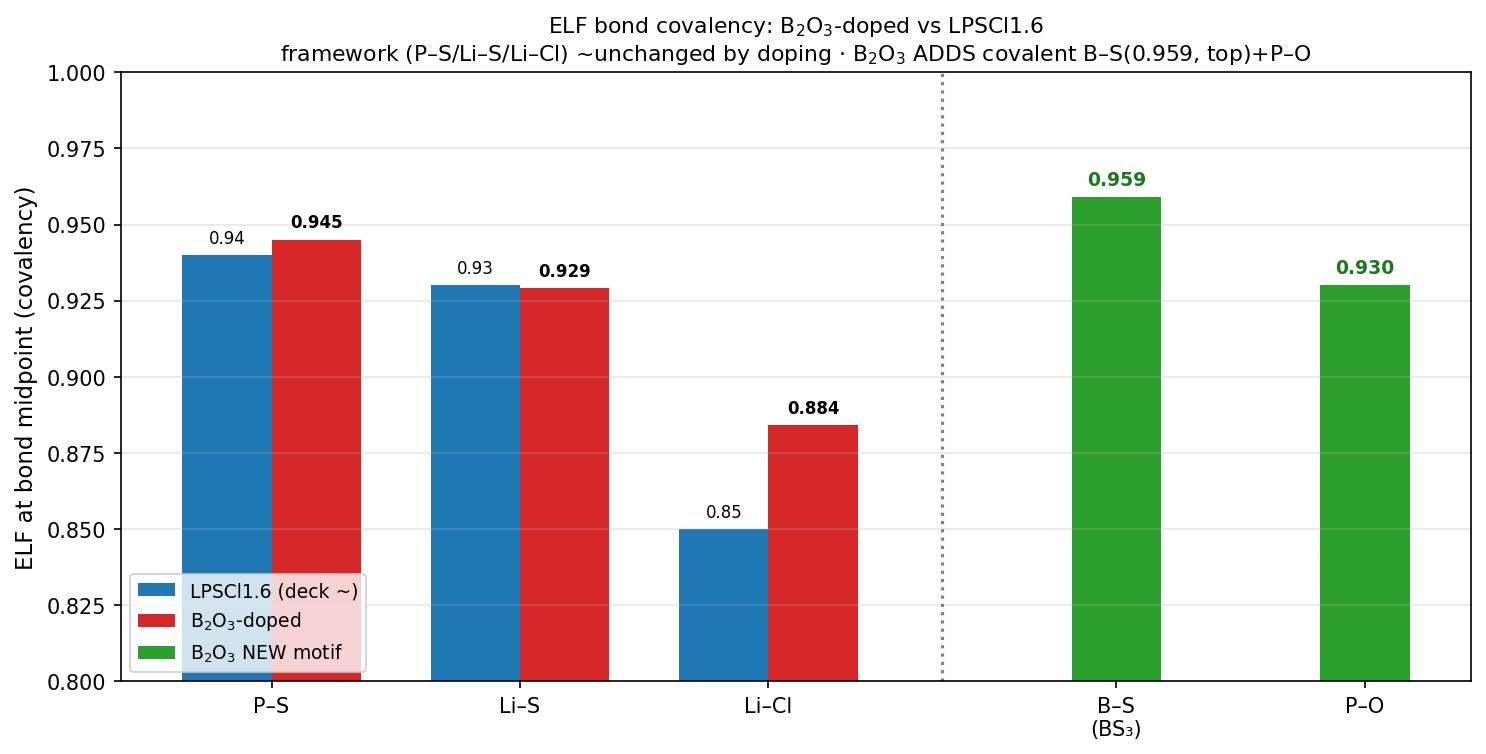
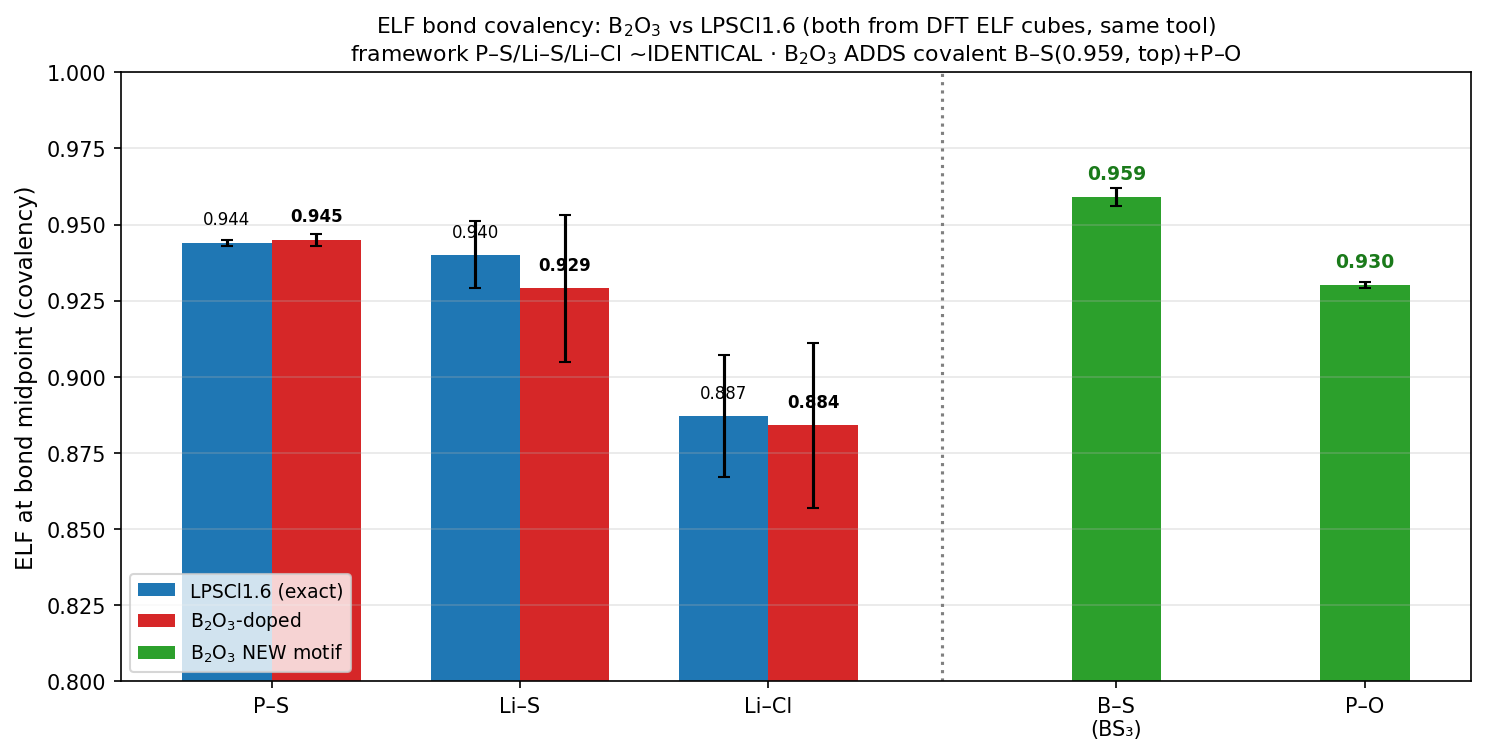
ELF comparison b2o3 vs LPSCl1.6 — EXACT (from modelc's real ELF cube)
User provided modelc_ELF.cube (mean 0.460 = real). Sampled with the same tool:
LPSCl1.6 P-S 0.944, Li-S 0.940, Li-Cl 0.887. vs b2o3: P-S 0.945, Li-Cl 0.884
IDENTICAL; Li-S 0.929. Framework covalency PRESERVED by doping; b2o3 adds B-S
(0.959, most covalent) + P-O (0.930). Replaces the earlier deck-~ bar with exact.
- b2o3_vs_lpscl16_elf_planes.png: 3-panel (LPSCl1.6 PS4 | b2o3 PS4 | b2o3 BS3) —
  PS4 visually identical, BS3 is the new covalent motif.
- modelc_elf_bonds.csv + kb comparison table.

Claude-Session: https://claude.ai/code/session_01L44TWYrHkcm4PH5ihWSSCw

diff --git a/kb/results/b2o3_elf_covalency_2026_07_02.md b/kb/results/b2o3_elf_covalency_2026_07_02.md
@@ -21,6 +21,17 @@
 - **Li–음이온(Li–S/Cl/O)은 std 0.02–0.03로 넓음** → 중점 ELF가 **음이온 lone-pair 껍질 근접**에 영향받아 다소 부풀려짐(순수 공유성 아님). robust 공유결합 집합 = **B–S/P–S/P–O**.
 - 툴 캘리브레이션(P–S 0.94 > Li–S 0.93 > Li–Cl 0.85)과 정확히 일치 → 값 신뢰.
 
+## LPSCl1.6 비교 (정밀 — 둘 다 실제 ELF cube, 같은 툴)
+modelc(LPSCl1.6) ELF cube(mean 0.460)에서 직접 샘플 → **골격 결합 거의 완전 동일**:
+| 결합 | LPSCl1.6 | b2o3 | Δ |
+|---|---|---|---|
+| P–S | 0.944 | 0.945 | +0.001 (동일) |
+| Li–Cl | 0.887 | 0.884 | −0.003 (동일) |
+| Li–S | 0.940 | 0.929 | −0.011 |
+| **B–S(BS₃)** | — | **0.959** | NEW |
+| **P–O** | — | **0.930** | NEW |
+- **결론: B₂O₃ 도핑이 PS₄/Li–Cl 골격 공유결합성을 그대로 보존**하고 **B–S(최강)·P–O 신규 공유 motif만 추가**. 평면 slice(`b2o3_vs_lpscl16_elf_planes.png`)에서 PS₄ 평면이 육안으로도 동일. (`db/properties/modelc_elf_bonds.csv`)
+
 ## 연결
 - 슬라이드 19(LPSCl/LPSCl1.6 ELF: PS₄ 공유·Li 이온·free-S lone pair)의 **b2o3 확장** — 새 B–S/P–O 공유 지문 추가.
 - `b2o3_bond_lengths_2026_06_29.md`(B–S 1.827), `b2o3_charge_bader_lowdin_2026_06_30.md`(B +3), Voronoi/배위(BS₃), `b2o3_cdd_2026_07_02.md`(같은 공유결합 축적).
